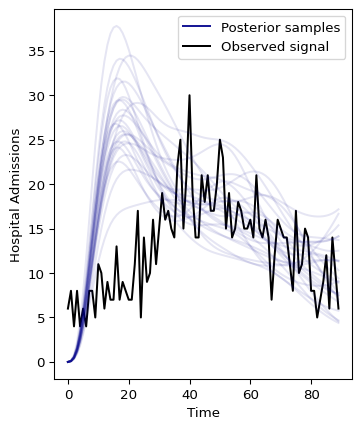
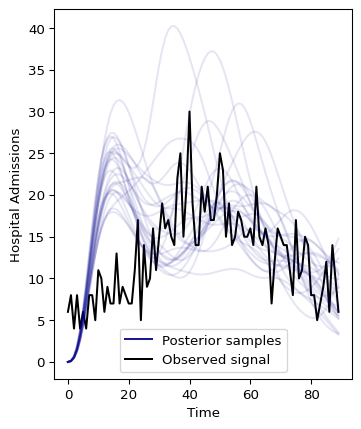
Adding padding for models

diff --git a/model/src/pyrenew/model/hospitalizations.py b/model/src/pyrenew/model/hospitalizations.py
@@ -2,6 +2,7 @@
 
 from collections import namedtuple
 
+import jax.numpy as jnp
 from numpy.typing import ArrayLike
 from pyrenew.deterministic import DeterministicVariable
 from pyrenew.metaclass import Model, RandomVariable, _assert_sample_and_rtype
@@ -160,6 +161,7 @@ class HospitalizationsModel(Model):
         self,
         predicted: ArrayLike,
         observed_hospitalizations: ArrayLike,
+        name: str | None = None,
         **kwargs,
     ) -> tuple:
         """Sample number of hospitalizations
@@ -170,6 +172,8 @@ class HospitalizationsModel(Model):
             The predicted hospitalizations.
         observed_hospitalizations : ArrayLike
             The observed hospitalization data (to fit).
+        name : str, optional
+            Name of the random variable. Defaults to None.
         **kwargs : dict, optional
             Additional keyword arguments passed through to internal
             sample_hospitalizations_obs calls, should there be any.
@@ -188,13 +192,17 @@ class HospitalizationsModel(Model):
         """
 
         return self.observed_hospitalizations.sample(
-            predicted=predicted, obs=observed_hospitalizations, **kwargs
+            predicted=predicted,
+            obs=observed_hospitalizations,
+            name=name,
+            **kwargs,
         )
 
     def sample(
         self,
         n_timepoints: int,
         observed_hospitalizations: ArrayLike | None = None,
+        padding: int = 0,
         **kwargs,
     ) -> HospModelSample:
         """
@@ -207,6 +215,9 @@ class HospitalizationsModel(Model):
         observed_hospitalizations : ArrayLike, optional
             The observed hospitalization data (passed to the basic renewal
             model). Defaults to None (simulation, rather than fit).
+        padding : int, optional
+            Number of padding timepoints to add to the beginning of the
+            simulation. Defaults to 0.
         **kwargs : dict, optional
             Additional keyword arguments passed through to internal sample()
             calls, should there be any.
@@ -230,6 +241,7 @@ class HospitalizationsModel(Model):
         Rt, infections, *_ = self.basic_renewal.sample(
             n_timepoints=n_timepoints,
             observed_infections=None,
+            padding=padding,
             **kwargs,
         )
 
@@ -244,11 +256,23 @@ class HospitalizationsModel(Model):
         )
 
         # Sampling the hospitalizations
-        sampled, *_ = self.sample_hospitalizations_obs(
-            predicted=latent,
-            observed_hospitalizations=observed_hospitalizations,
-            **kwargs,
-        )
+        if (observed_hospitalizations is not None) and (padding > 0):
+            sampled_imputed = jnp.repeat(jnp.nan, padding)
+
+            sampled_observed, *_ = self.sample_hospitalizations_obs(
+                predicted=latent[padding:],
+                observed_hospitalizations=observed_hospitalizations[padding:],
+                **kwargs,
+            )
+
+            sampled = jnp.hstack([sampled_imputed, sampled_observed])
+
+        else:
+            sampled, *_ = self.sample_hospitalizations_obs(
+                predicted=latent,
+                observed_hospitalizations=observed_hospitalizations,
+                **kwargs,
+            )
 
         return HospModelSample(
             Rt=Rt,

diff --git a/model/src/pyrenew/model/rtinfectionsrenewal.py b/model/src/pyrenew/model/rtinfectionsrenewal.py
@@ -3,6 +3,7 @@
 from collections import namedtuple
 from typing import Optional
 
+import jax.numpy as jnp
 from numpy.typing import ArrayLike
 from pyrenew.metaclass import Model, RandomVariable, _assert_sample_and_rtype
 
@@ -211,6 +212,7 @@ class RtInfectionsRenewalModel(Model):
         self,
         predicted: ArrayLike,
         observed_infections: Optional[ArrayLike] = None,
+        name: str | None = None,
         **kwargs,
     ) -> tuple:
         """Sample number of hospitalizations
@@ -221,6 +223,8 @@ class RtInfectionsRenewalModel(Model):
             The predicted infecteds.
         observed_hospitalizations : ArrayLike, optional
             The observed values of hospital admissions, if any, for inference. Defaults to None.
+        name : str, optional
+            Name of the random variable passed to the RandomVariable.
         **kwargs : dict, optional
             Additional keyword arguments passed through to internal
             sample() calls, should there be any.
@@ -240,6 +244,7 @@ class RtInfectionsRenewalModel(Model):
         return self.observed_infections.sample(
             predicted=predicted,
             obs=observed_infections,
+            name=name,
             **kwargs,
         )
 
@@ -247,6 +252,7 @@ class RtInfectionsRenewalModel(Model):
         self,
         n_timepoints: int,
         observed_infections: Optional[ArrayLike] = None,
+        padding: int = 0,
         **kwargs,
     ) -> RtInfectionsRenewalSample:
         """Sample from the Basic Renewal Model
@@ -257,6 +263,9 @@ class RtInfectionsRenewalModel(Model):
             Number of timepoints to sample.
         observed_infections : ArrayLike, optional
             Observed infections.
+        padding : int, optional
+            Number of padding timepoints to add to the beginning of the
+            simulation. Defaults to 0.
         **kwargs : dict, optional
             Additional keyword arguments passed through to internal sample()
             calls, if any
@@ -292,9 +301,22 @@ class RtInfectionsRenewalModel(Model):
         )
 
         # Using the predicted infections to sample from the observation process
-        sampled, *_ = self.sample_infections_obs(
-            predicted=latent, observed_infections=observed_infections, **kwargs
-        )
+        if (observed_infections is not None) and (padding > 0):
+            sampled_pad = jnp.zeros(padding)
+
+            sampled_obs, *_ = self.sample_infections_obs(
+                predicted=latent[padding:],
+                observed_infections=observed_infections[padding],
+                **kwargs,
+            )
+
+            sampled = jnp.concatenate([sampled_pad, sampled_obs])
+        else:
+            sampled, *_ = self.sample_infections_obs(
+                predicted=latent,
+                observed_infections=observed_infections,
+                **kwargs,
+            )
 
         return RtInfectionsRenewalSample(
             Rt=Rt,

diff --git a/model/src/pyrenew/observation/negativebinomial.py b/model/src/pyrenew/observation/negativebinomial.py
@@ -68,6 +68,7 @@ class NegativeBinomialObservation(RandomVariable):
     def sample(
         self,
         predicted: ArrayLike,
+        name: str | None = None,
         obs: ArrayLike | None = None,
         **kwargs,
     ) -> tuple:
@@ -79,6 +80,9 @@ class NegativeBinomialObservation(RandomVariable):
             Mean parameter of the negative binomial distribution.
         obs : ArrayLike, optional
             Observed data, by default None.
+        name : str, optional
+            Name of the random variable if other than that defined during
+            construction, by default None (self.parameter_name).
         **kwargs : dict, optional
             Additional keyword arguments passed through to internal sample calls, should there be any.
 
@@ -88,10 +92,13 @@ class NegativeBinomialObservation(RandomVariable):
         """
         concentration = self.sample_prior()
 
+        if name is None:
+            name = self.parameter_name
+
         return (
             numpyro.sample(
-                self.parameter_name,
-                dist.NegativeBinomial2(
+                name=name,
+                fn=dist.NegativeBinomial2(
                     mean=predicted + self.eps,
                     concentration=concentration,
                 ),

diff --git a/model/src/pyrenew/observation/poisson.py b/model/src/pyrenew/observation/poisson.py
@@ -45,6 +45,7 @@ class PoissonObservation(RandomVariable):
         self,
         predicted: ArrayLike,
         obs: ArrayLike | None = None,
+        name: str | None = None,
         **kwargs,
     ) -> tuple:
         """Sample from the Poisson process
@@ -55,6 +56,8 @@ class PoissonObservation(RandomVariable):
             Rate parameter of the Poisson distribution.
         obs : ArrayLike, optional
             Observed data. Defaults to None.
+        name : str, optional
+            Name of the random variable. Defaults to None.
         **kwargs : dict, optional
             Additional keyword arguments passed through to internal sample calls, should there be any.
 
@@ -62,10 +65,14 @@ class PoissonObservation(RandomVariable):
         -------
         tuple
         """
+
+        if name is None:
+            name = self.parameter_name
+
         return (
             numpyro.sample(
-                self.parameter_name,
-                dist.Poisson(rate=predicted + self.eps),
+                name=name,
+                fn=dist.Poisson(rate=predicted + self.eps),
                 obs=obs,
             ),
         )

diff --git a/model/docs/example-with-datasets.md b/model/docs/example-with-datasets.md
@@ -26,8 +26,8 @@ $$
 
 Where $h(t)$ is the observed number of hospital admissions at time $t$,
 and $H(t)$ is the number of latent hospital admissions at time $t$. The
-distribution $\text{HospDist}$ can be any discrete distribution, but we
-will use a negative binomial distribution.
+distribution $\text{HospDist}$ is discrete. For this example, we will
+use a negative binomial distribution.
 
 The number of latent hospital admissions at time $t$ is a function of
 the number of latent infections at time $t$ and the infection to
@@ -135,8 +135,8 @@ id="plot-hospital-admissions" />
 
 ## Building the model
 
-First, we will extract two datasets that we will use as deterministic
-quantities, the generation interval and the infection to hospitalization
+First, we will extract two datasets we will use as deterministic
+quantities: the generation interval and the infection to hospitalization
 interval.
 
 ``` python
@@ -191,6 +191,10 @@ latent_hosp = HospitalAdmissions(
     )
 ```
 
+    /mnt/c/Users/xrd4/Documents/repos/msr/model/.venv/lib/python3.10/site-packages/tqdm/auto.py:21: TqdmWarning: IProgress not found. Please update jupyter and ipywidgets. See https://ipywidgets.readthedocs.io/en/stable/user_install.html
+      from .autonotebook import tqdm as notebook_tqdm
+    An NVIDIA GPU may be present on this machine, but a CUDA-enabled jaxlib is not installed. Falling back to cpu.
+
 The `inf_hosp_int` is a `DeterministicPMF` object that takes the
 infection to hospitalization interval as input. The `hosp_rate` is an
 `InfectHospRate` object that takes the infection to hospitalization rate
@@ -211,7 +215,9 @@ I0 = Infections0(I0_dist=dist.LogNormal(loc=jnp.log(80/.05), scale=0.5))
 
 # Generation interval and Rt
 gen_int = DeterministicPMF(gen_int)
-process = RtRandomWalkProcess()
+process = RtRandomWalkProcess(
+    Rt_rw_dist=dist.Normal(0, 0.1)
+)
 
 # The observation model
 obs = NegativeBinomialObservation(concentration_prior=1.0)
@@ -286,8 +292,10 @@ model.run(
 )
 ```
 
+We can use the `plot_posterior` method to visualize the results[^1]:
+
 ``` python
-model.plot_posterior(
+out = model.plot_posterior(
     var="predicted_hospitalizations",
     ylab="Hospital Admissions",
     obs_signal=dat["daily_hosp_admits"].to_numpy(),
@@ -297,9 +305,44 @@ model.plot_posterior(
 ![Hospital Admissions posterior
 distribution](example-with-datasets_files/figure-commonmark/output-hospital-admissions-output-1.png)
 
-The first half of the model is not looking good. We can try to improve
-the model by incorporating weekday effects. The following section will
-show how to do this.
+The first half of the model is not looking good. The reason is that the
+infection to hospitalization interval PMF makes it unlikely to observe
+admissions from the beginning. To solve this, we can use the padding
+argument to add a few days of missing data at the beginning of the
+model. The following code will add 14 days of missing data at the
+beginning of the model:
+
+``` python
+days_to_inpute = 14
+
+dat2 = dat["daily_hosp_admits"].to_numpy()
+
+# Add 14 Nas to the beginning of dat2
+dat2 = np.hstack((np.repeat(np.nan, days_to_inpute), dat2))
+
+model.run(
+    num_samples=2000,
+    num_warmup=2000,
+    n_timepoints=dat2.shape[0] - 1,
+    observed_hospitalizations=dat2,
+    rng_key=jax.random.PRNGKey(54),
+    mcmc_args=dict(progress_bar=False),
+    padding=days_to_inpute,
+)
+```
+
+And plotting the results:
+
+``` python
+out = model.plot_posterior(
+    var="predicted_hospitalizations",
+    ylab="Hospital Admissions",
+    obs_signal=dat2,
+)
+```
+
+![Hospital Admissions posterior
+distribution](example-with-datasets_files/figure-commonmark/output-admissions-with-padding-output-1.png)
 
 ## Round 2: Incorporating weekday effects
 
@@ -371,28 +414,32 @@ model_weekday = HospitalizationsModel(
 )
 ```
 
-Running the model:
+Running the model (with the same padding as before):
 
 ``` python
 model_weekday.run(
     num_samples=2000,
     num_warmup=2000,
-    n_timepoints=dat.shape[0] - 1,
-    observed_hospitalizations=dat["daily_hosp_admits"].to_numpy(),
+    n_timepoints=dat2.shape[0] - 1,
+    observed_hospitalizations=dat2,
     rng_key=jax.random.PRNGKey(54),
     mcmc_args=dict(progress_bar=False),
+    padding=days_to_inpute,
 )
 ```
 
 And plotting the results:
 
 ``` python
-model_weekday.plot_posterior(
+out = model_weekday.plot_posterior(
     var="predicted_hospitalizations",
     ylab="Hospital Admissions",
-    obs_signal=dat["daily_hosp_admits"].to_numpy(),
+    obs_signal=dat2,
 )
 ```
 
 ![Hospital Admissions posterior
-distribution](example-with-datasets_files/figure-commonmark/output-hospital-admissions-weekday-output-1.png)
+distribution](example-with-datasets_files/figure-commonmark/output-admissions-padding-and-weekday-output-1.png)
+
+[^1]: The output is captured to avoid `quarto` from displaying the
+    output twice.

diff --git a/model/docs/pyrenew_demo.md b/model/docs/pyrenew_demo.md
@@ -39,6 +39,8 @@ import numpyro.distributions as dist
 from pyrenew.process import SimpleRandomWalkProcess
 ```
 
+    An NVIDIA GPU may be present on this machine, but a CUDA-enabled jaxlib is not installed. Falling back to cpu.
+
 To understand the simple random walk process underlying the sampling
 within the renewal process model, we first examine a single random walk
 path. Using the `sample` method from an instance of the
